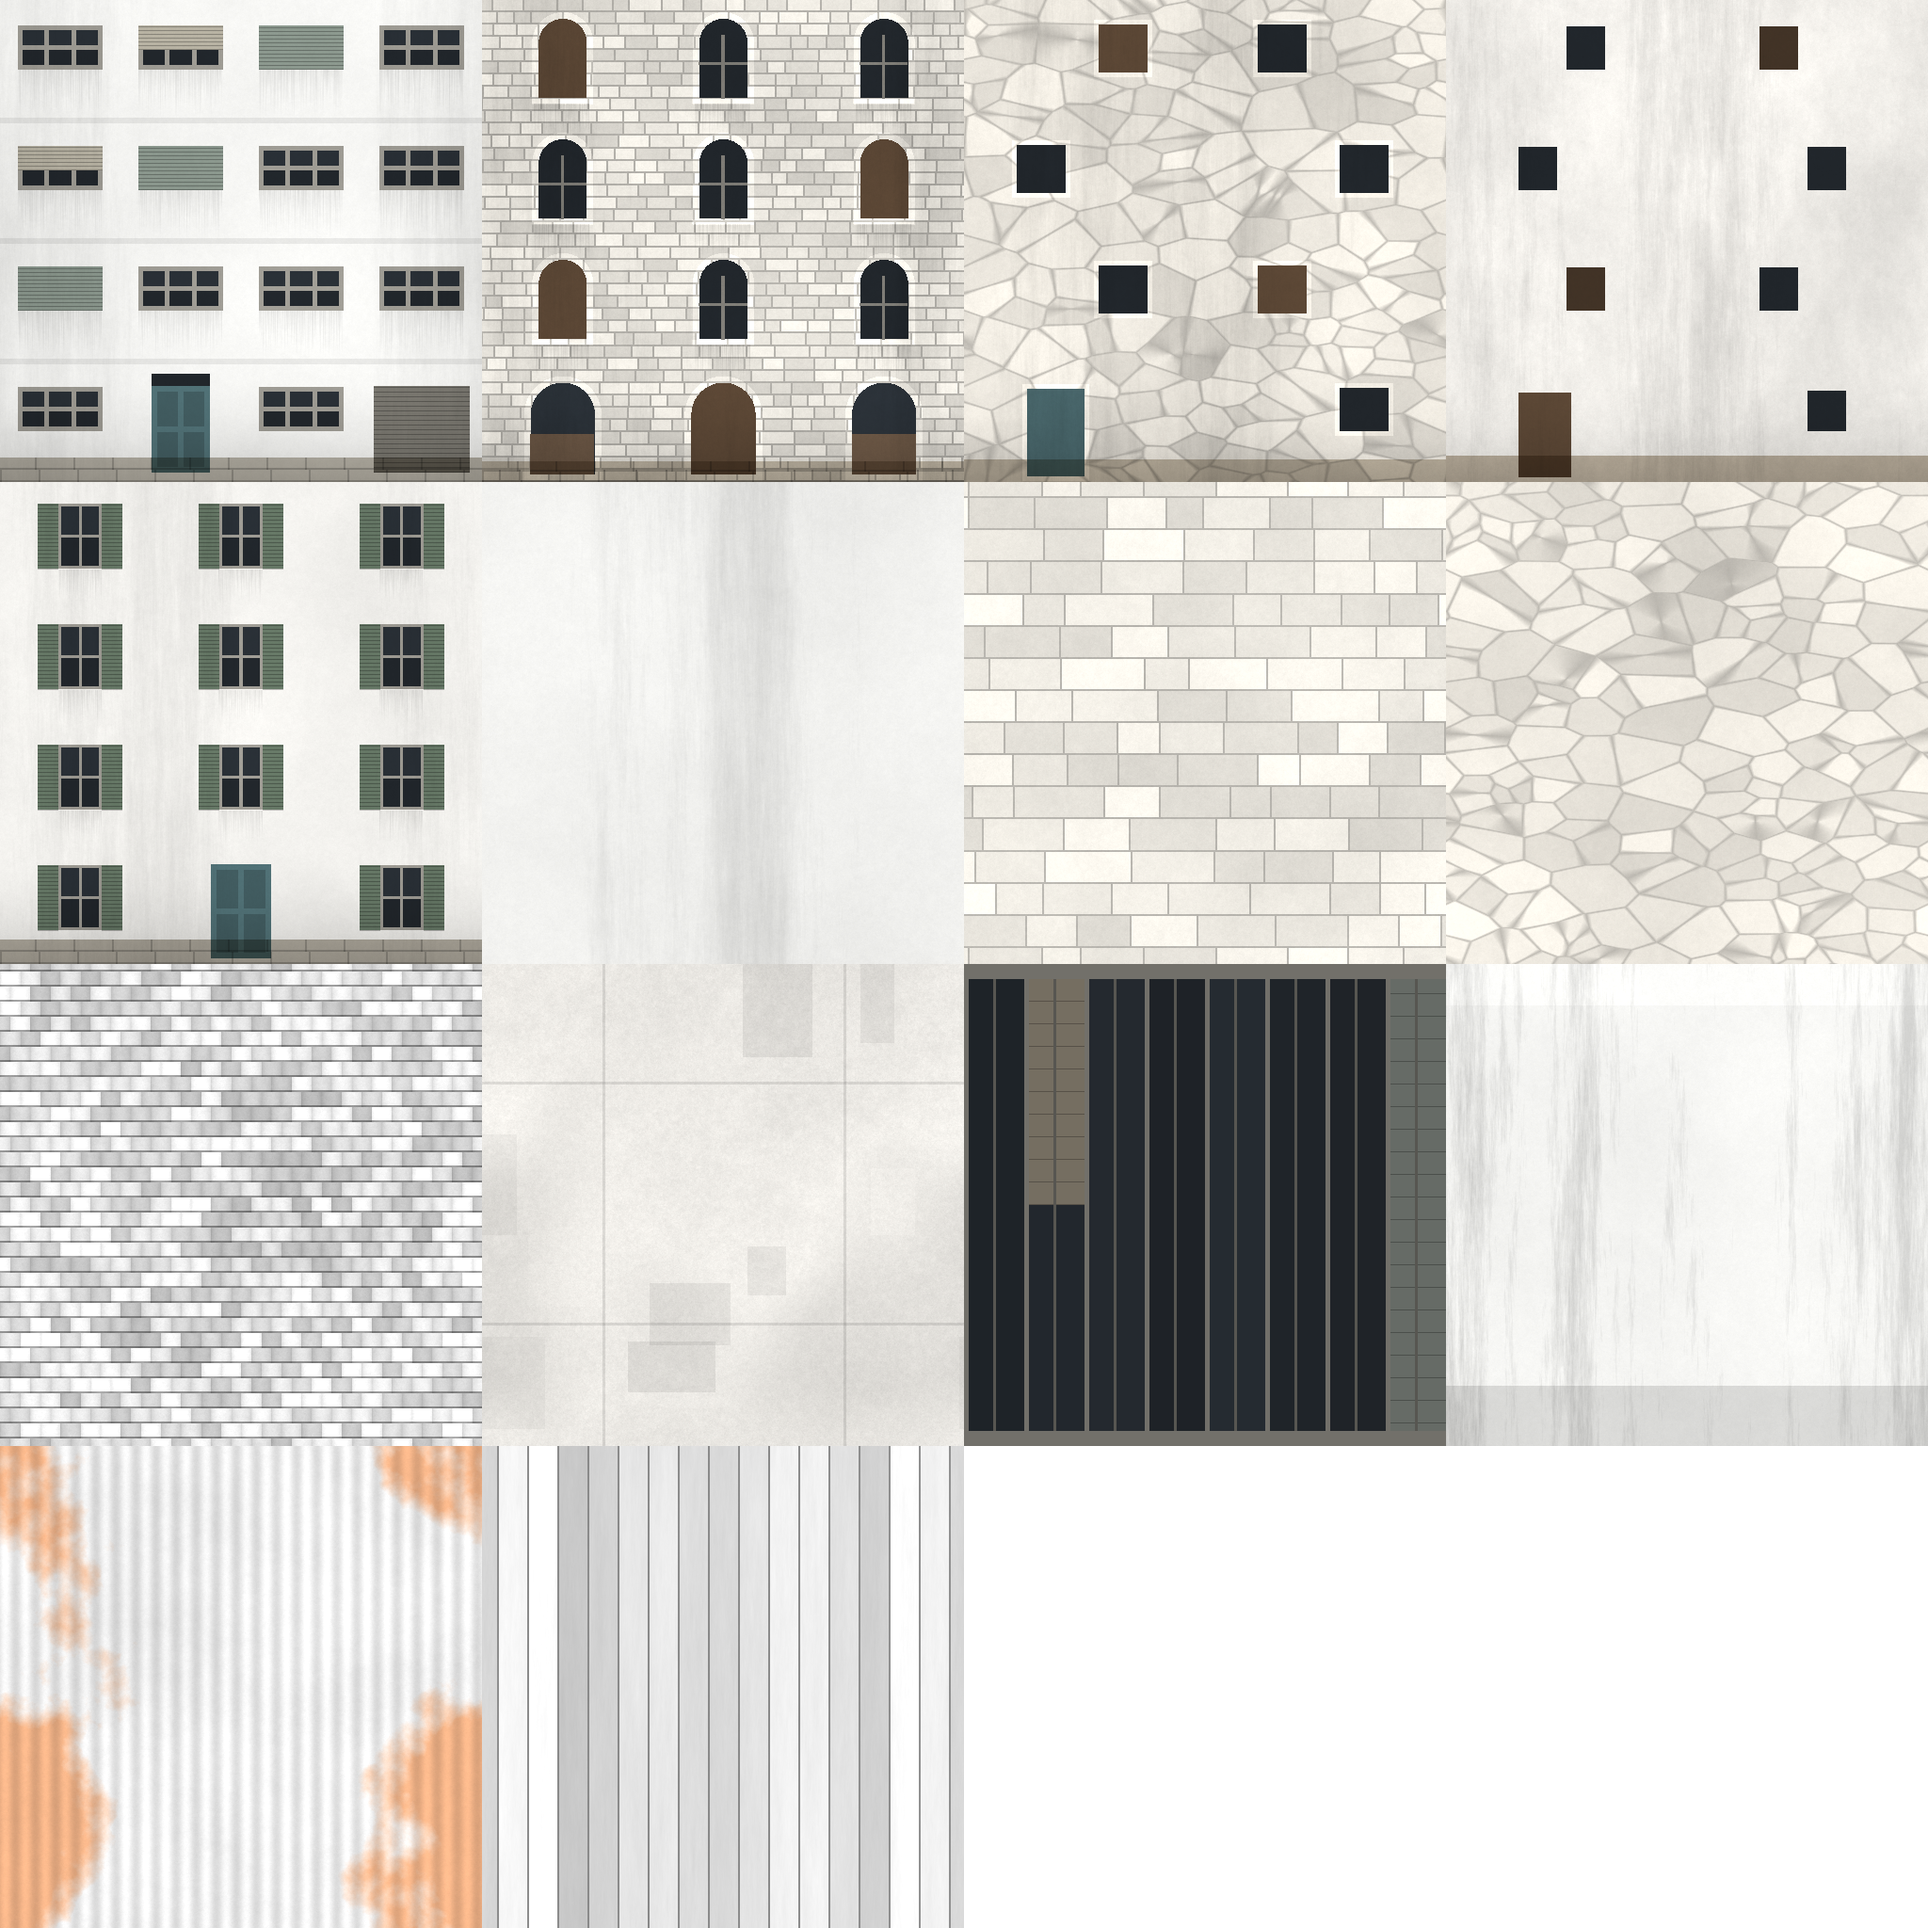
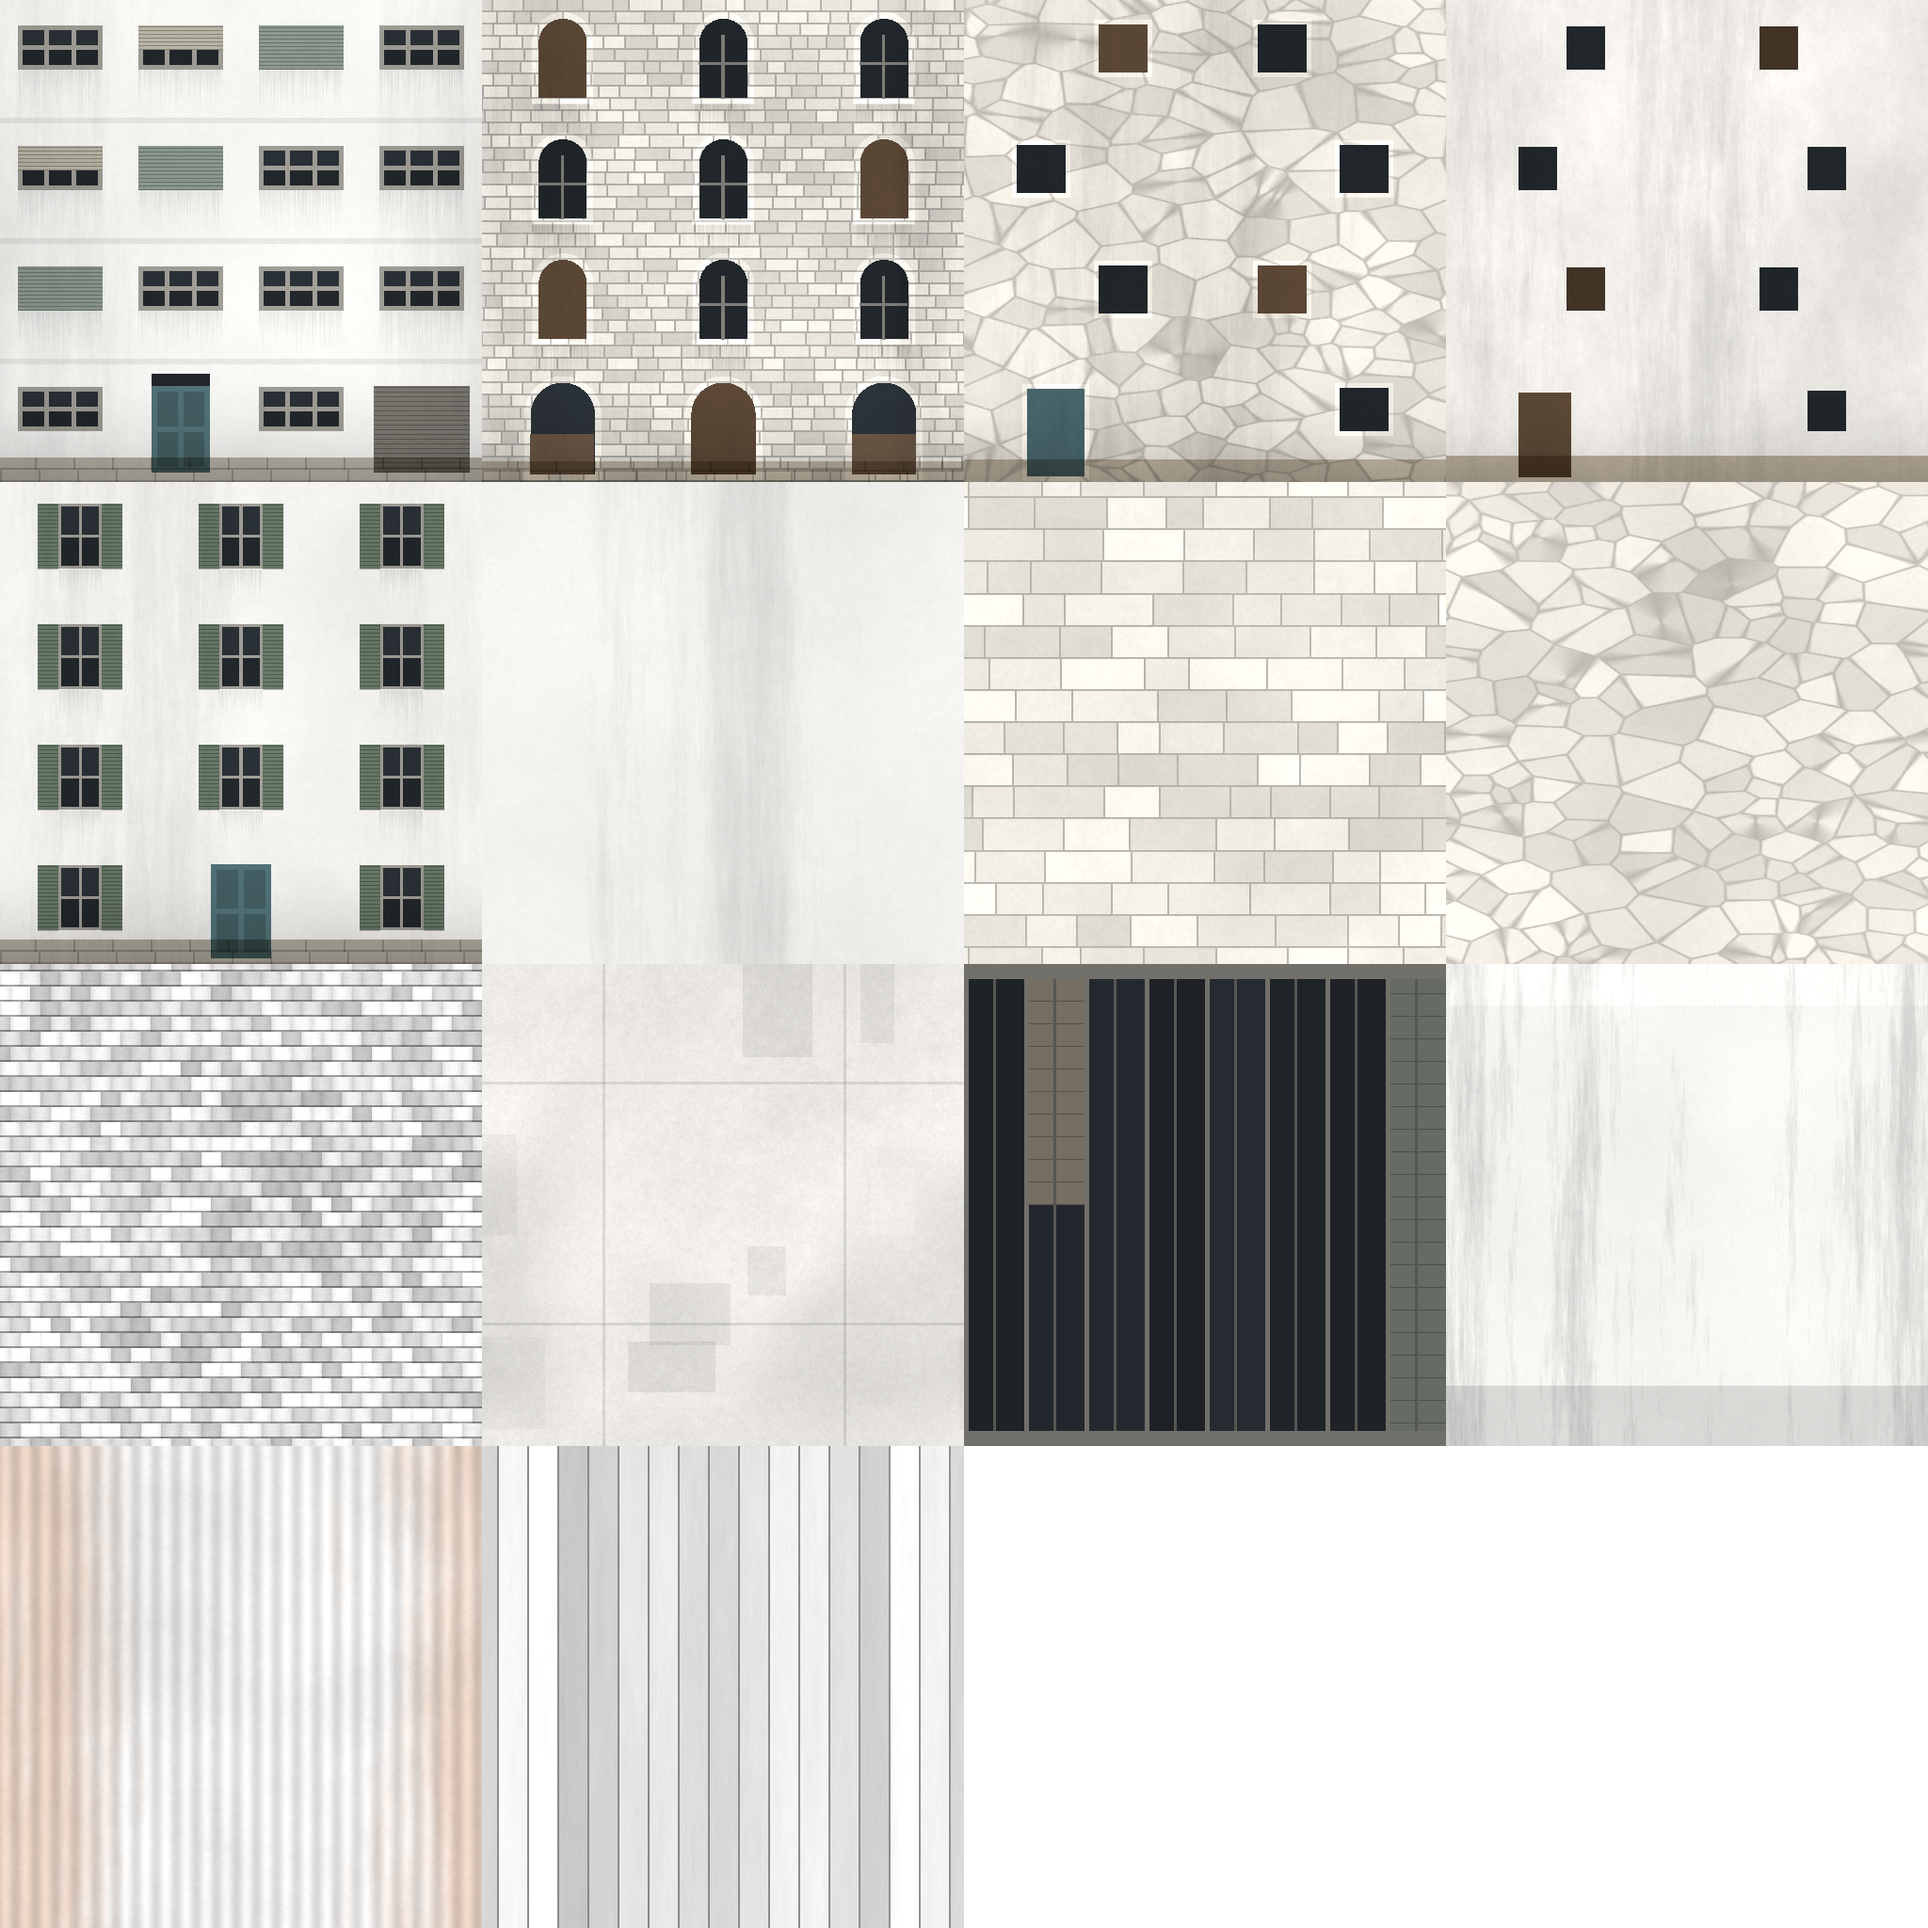
Map kits: soften the corrugated roofs' rust (Refs #2428)

Changed region(s): [[0.0, 0.75, 0.0625, 1.0], [0.1562, 0.75, 0.25, 1.0]]

diff --git a/asset-sources/kit-atlas/make_kit_atlas.py b/asset-sources/kit-atlas/make_kit_atlas.py
@@ -432,8 +432,8 @@ def corrugated() -> np.ndarray:
     xx = np.arange(N)[None, :]
     k = 0.93 + 0.07 * np.sin(2 * np.pi * xx * 24 / N)
     a = np.repeat(np.repeat(k, N, axis=0)[..., None], 3, axis=2)
-    rust = np.clip((noise(131, 1.9) - 0.16) * 3.0, 0, 1)[..., None]
-    a = a * (1 - rust) + a * rgb(1.0, 0.74, 0.56) * rust
+    rust = 0.45 * np.clip((noise(131, 1.5, (0.6, 4.0)) + 0.1) * 1.6, 0, 1)[..., None]    # soft, and run down the sheets
+    a = a * (1 - rust) + a * rgb(0.92, 0.72, 0.58) * rust
     return normalise(grain(a, 132, 0.04, 0.02), 0.88)
 
 
